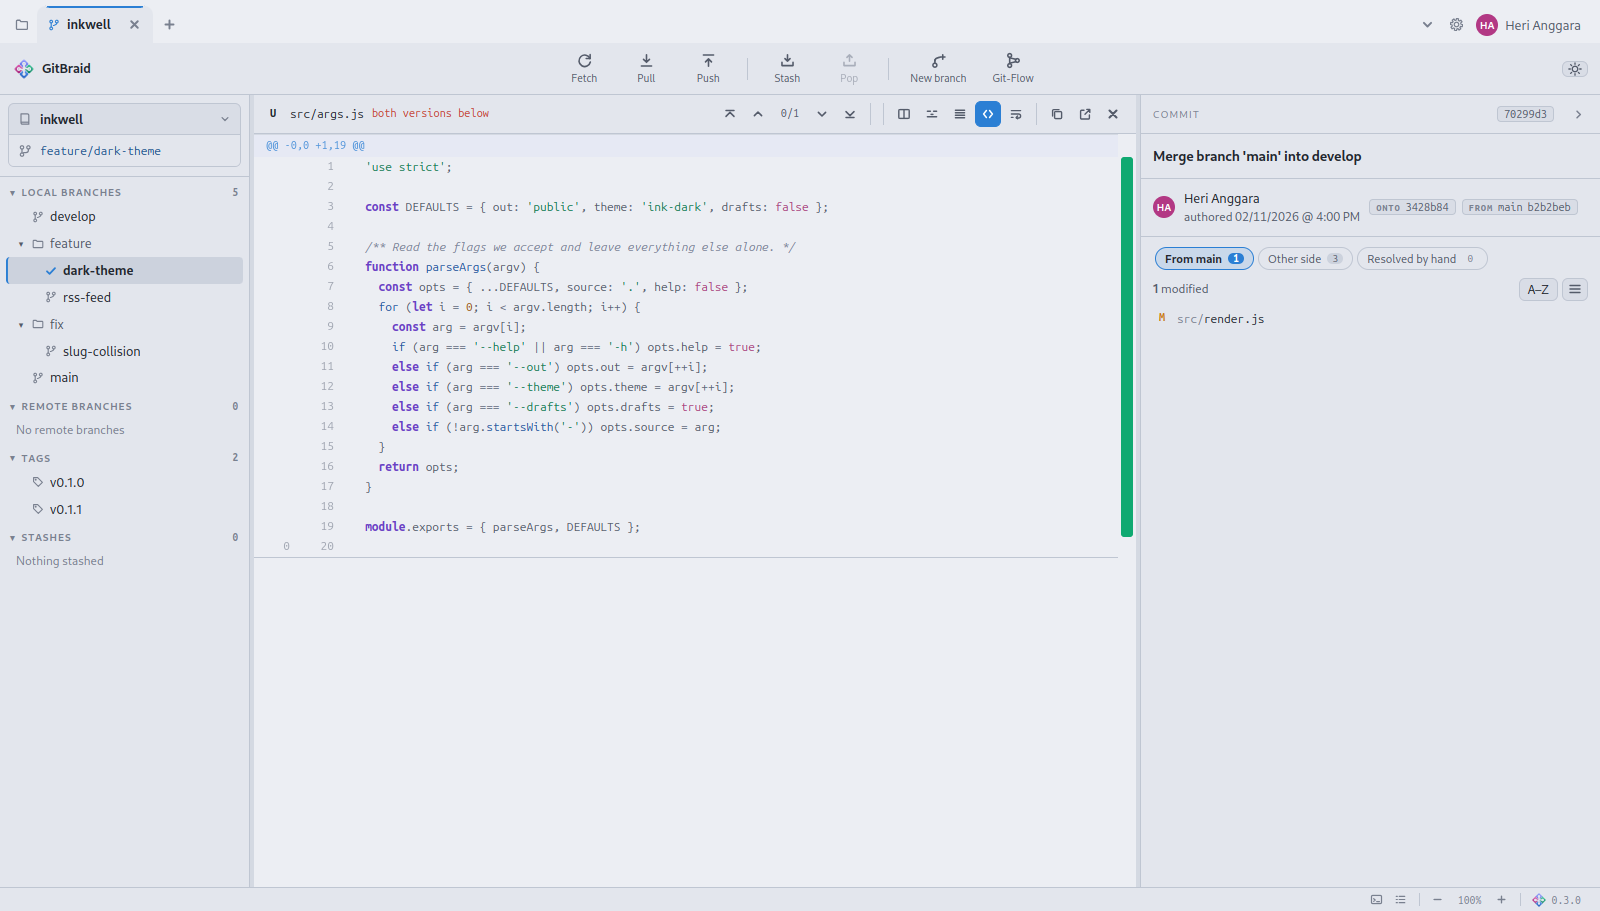
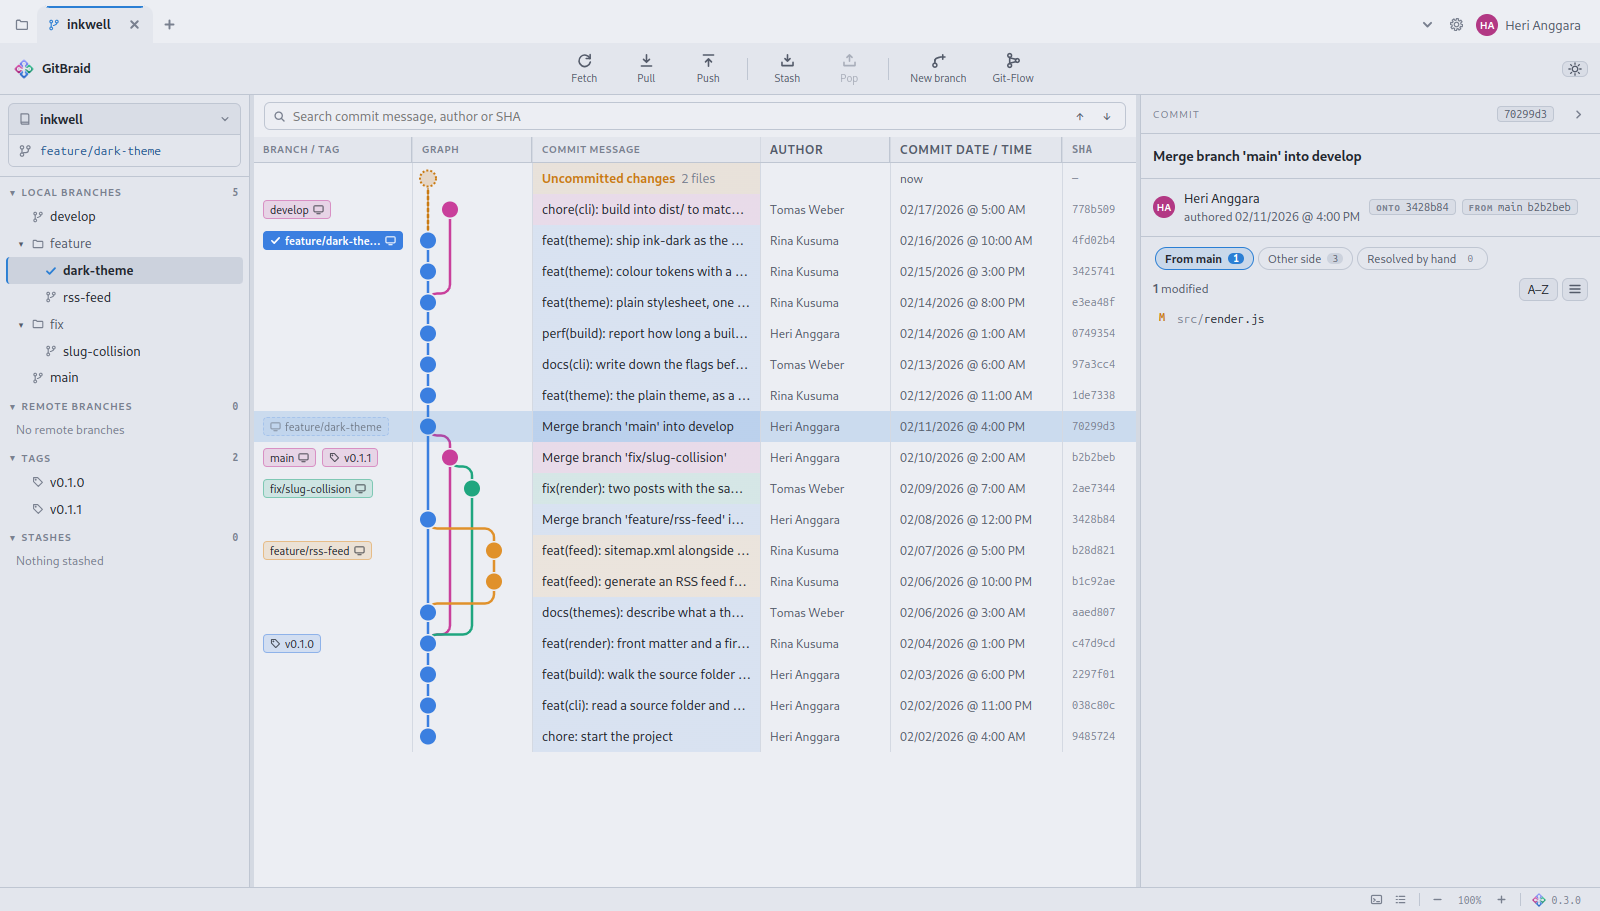
docs: add the commit list to the README, and fix the shots it was showing
The screenshots the README pointed at were wrong, and the file sizes said so:
history-light was 117 KB against history's 231 KB, because the light pass of the
screenshot run began with a file still open from the dark pass, and an open file
hides the history behind it. Every light picture was of the pane left over from
the pass before. Each pass now starts from the same place, and the conflict shot
closes its file afterwards.

Adds a picture of the commit list at full width — details panel folded away, so
message, author, date and SHA all have room — which is what the graph shot could
not show with its columns squeezed to ellipses. Both themes, so the store listing
gets it too.

diff --git a/screenshots/shoot.js b/screenshots/shoot.js
@@ -35,6 +35,12 @@ app.whenReady().then(async () => {
   for (const theme of ['dark', 'light']) {
     const name = (base) => base + (theme === 'light' ? '-light' : '') + '.png';
     console.log('  --- ' + theme);
+    /* Each pass starts from the same place. An open file hides the history
+       behind it, so anything left over from the pass before was photographed
+       instead of what this one meant to show. */
+    await js("closeFile()");
+    await js("collapseDetail(false)");
+    await wait(400);
     await js('applyTheme(' + JSON.stringify(theme) + ')');
     // The pointer sits wherever the window opened, and a row under it grows a
     // tooltip that has no business in a published picture.
@@ -60,6 +66,17 @@ app.whenReady().then(async () => {
     await js("(async function(){ await selectCommit(state.commits.find(function (c) { return c.parents.length > 1; }).hash); })()");
     await js("setStatus('')");
     await shot(name('history'));
+
+    /* The same history with the details panel folded away, which is the only
+       way the message, author, date and SHA columns all get room to be read.
+       Photographed from the top of the branch, where the uncommitted row sits. */
+    await js("collapseDetail(true)");
+    await js("(function(){ document.getElementById('history-scroll').scrollTop = 0; })()");
+    await wait(700);
+    await js("setStatus('')");
+    await shot(name('commits'));
+    await js("collapseDetail(false)");
+    await wait(500);
 
     /* A commit with enough in it to show the viewer doing its work: syntax
        colouring, both kinds of change, the block counter, and the change map
@@ -91,8 +108,11 @@ app.whenReady().then(async () => {
     await js("(async function(){ var c = state.status.conflicted[0]; if (c) { state.file = { path: c.path, kind: 'conflict', status: c.status }; await showFileDiff(); } })()");
     await js("setStatus('')");
     await shot(name('conflict'));
+    await js("closeFile()");
     git('merge', '--abort');
     git('stash', 'pop');
+    await js("(async function(){ await refresh({ keepSelection: false }); })()");
+    await wait(600);
   }
 
   app.quit();

diff --git a/README.md b/README.md
@@ -55,6 +55,15 @@ happened, tags and branch names in a column of their own. Only the rows on
 screen are built, so a repository of nine thousand commits scrolls like one with
 nine.
 
+Fold the details panel away and every column has room: message, author, date and
+SHA, with the row you have not committed yet sitting at the top of the branch.
+
+<div align="center">
+
+<img src="screenshots/commits-light.png" alt="The commit list at full width, showing message, author, date and SHA for each row" width="880">
+
+</div>
+
 **Diffs you can read.** Syntax colouring for around fifteen languages, written
 here rather than pulled from a library. Stage, unstage and discard by hunk. A
 strip beside the scrollbar shows where every change is — click one to jump to
